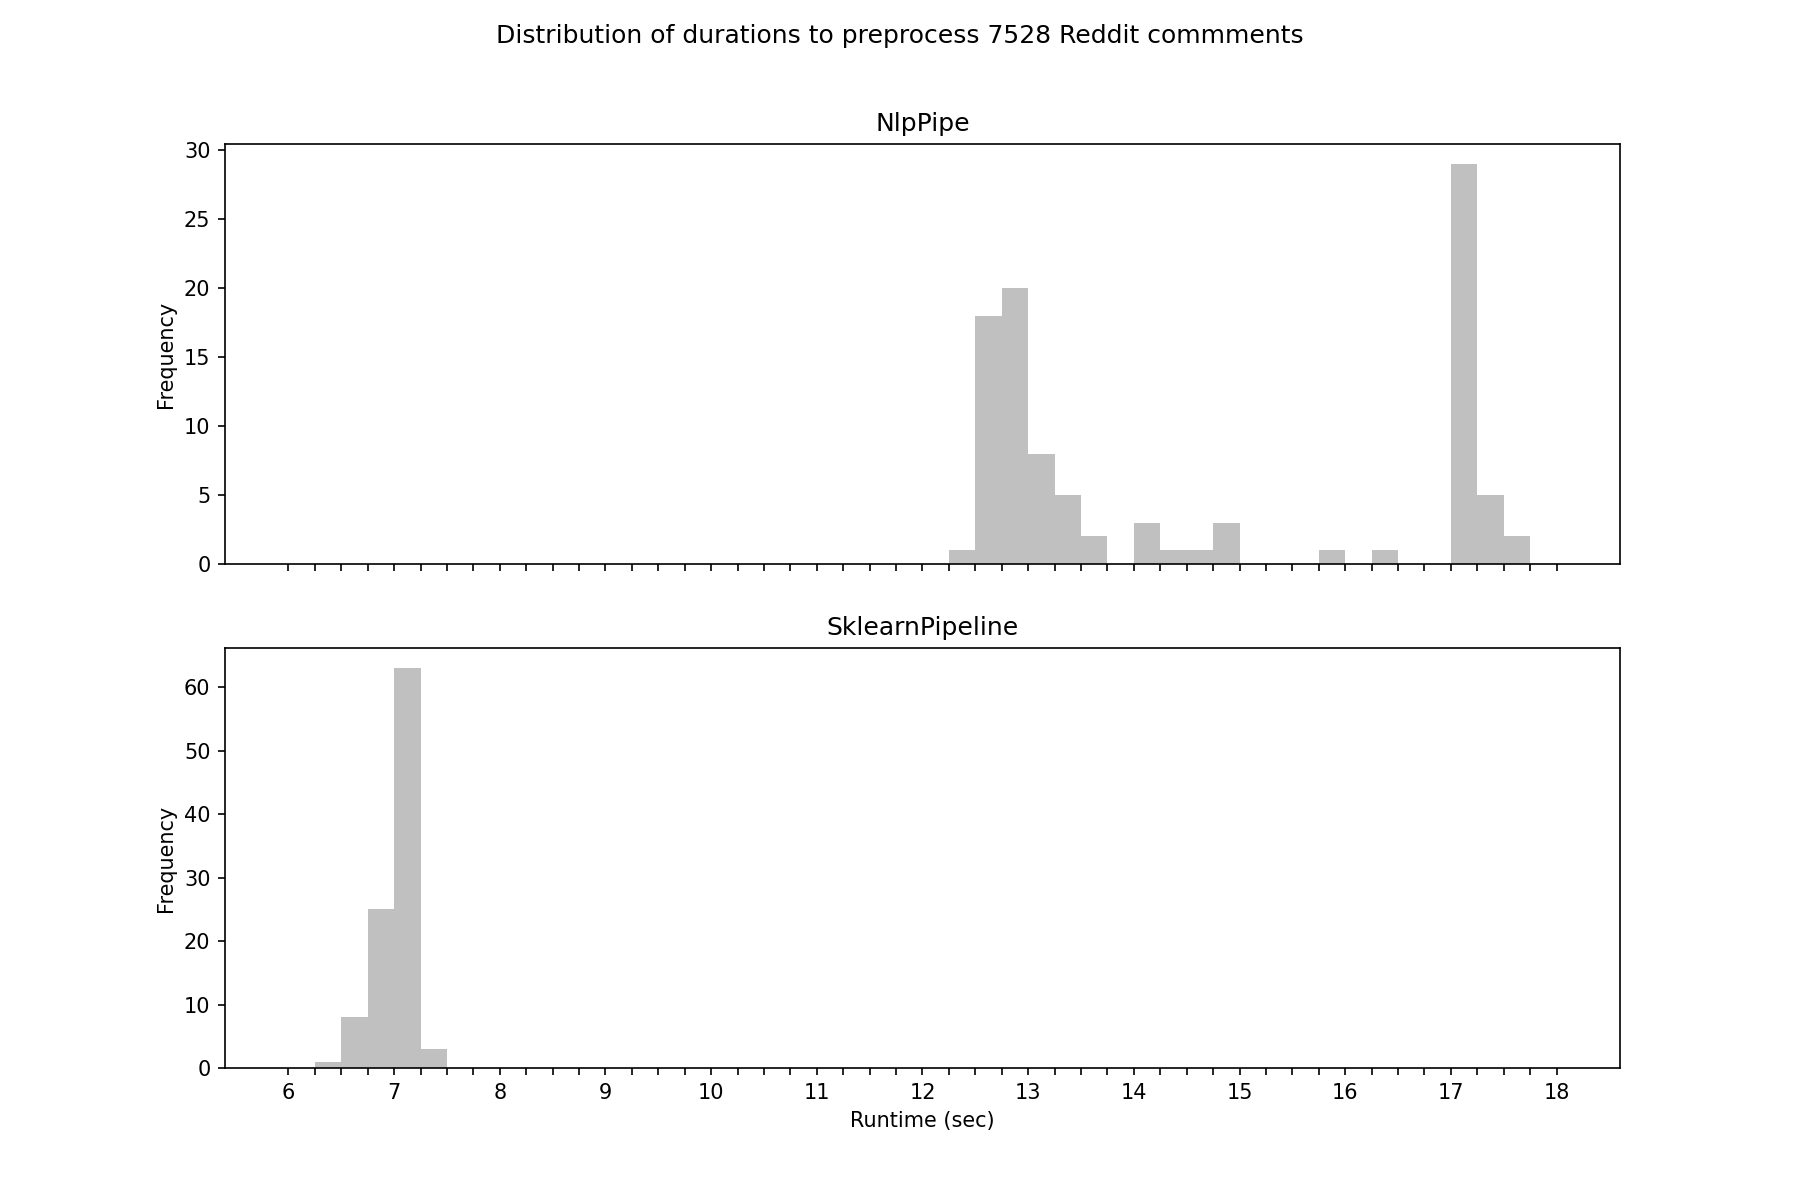
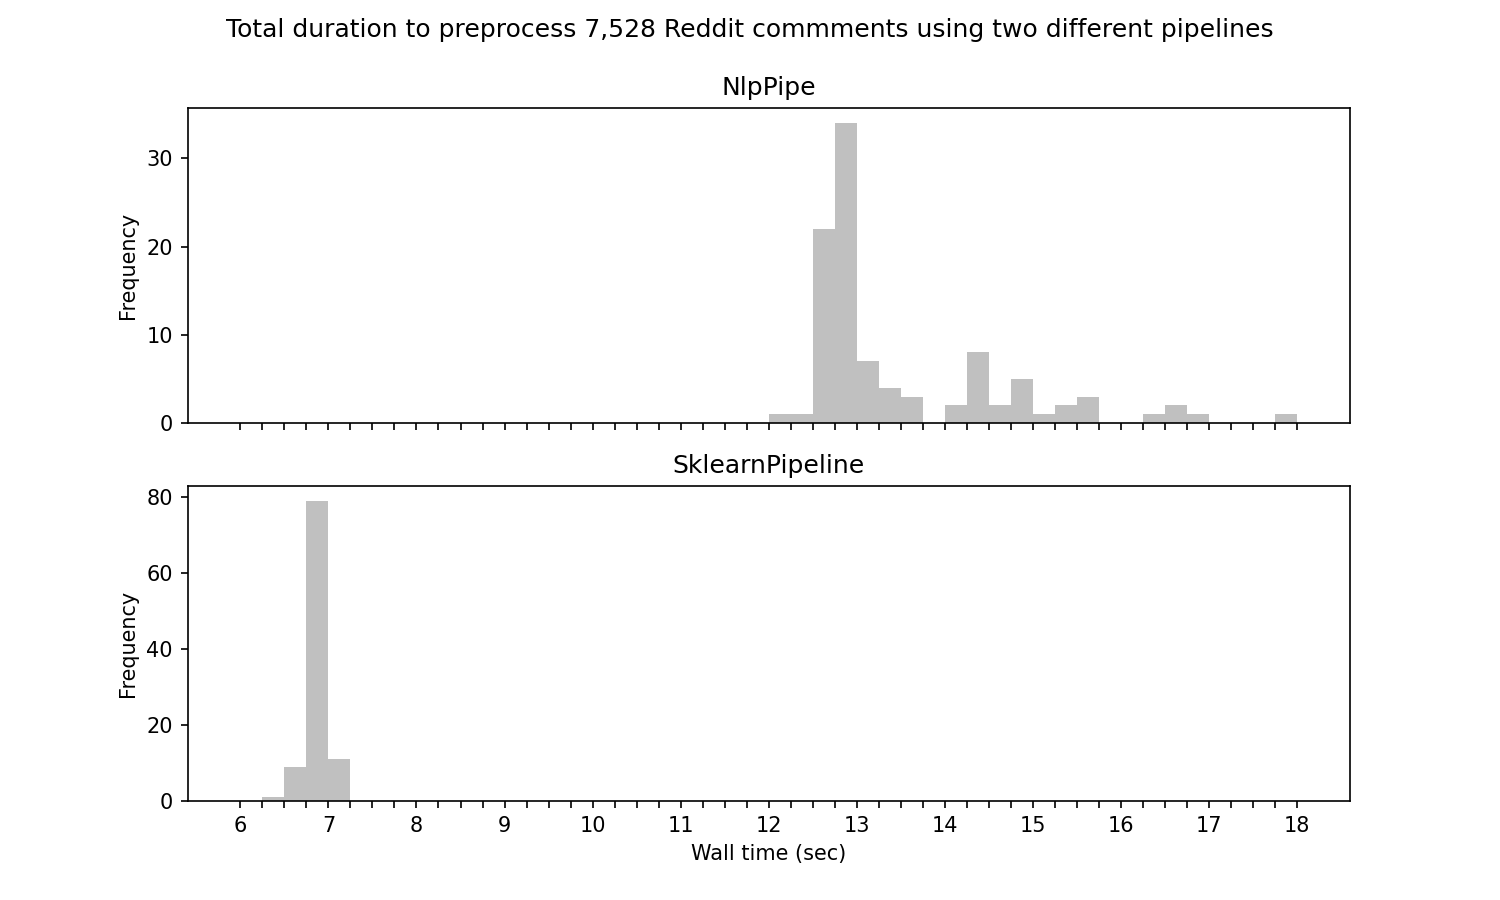
minor benchmarking histogram tweaks

diff --git a/sub_clf/preprocess/benchmark.py b/sub_clf/preprocess/benchmark.py
@@ -4,7 +4,7 @@ Benchmark the performance of two options for parallelized text preprocessing:
     1. using `spacy`'s `nlp.pipe` with custom components and a `batch_size` of `NCPU`
     2. using `sklearn.Pipeline` with custom regex-based transformers
 
-For each option, execute `NITER` iterations, compute the mean processing time,
+For each option, execute `NITER` iterations and compute the mean processing time,
 saving (1) the aggregate results to a "benchmark_aggregates.txt" and (2) the raw
 results to a series of histograms in "benchmark_histograms.png".
 """
@@ -84,12 +84,13 @@ class PerformanceBenchmarker:
         bins = np.linspace(min_, max_, nbins)
 
         axes = results.plot.hist(bins=bins, title=results.columns.tolist(),
-                                 figsize=(12, 8), color='silver',
+                                 figsize=(10, 6), color='silver',
                                  subplots=True, legend=False)
         axes[-1].set_xticks(bins)
         axes[-1].set_xticklabels('' if i % 1 else int(i) for i in bins)
-        axes[-1].set_xlabel('Runtime (sec)')
-        plt.suptitle(f'Distribution of durations to preprocess {ntext} Reddit commments')
+        axes[-1].set_xlabel('Wall time (sec)')
+        plt.suptitle(f'Total duration to preprocess {ntext:,} Reddit commments using '
+                     'two different pipelines')
 
         histogram_file_path = output_dir / 'benchmark_histograms.png'
         plt.savefig(histogram_file_path, dpi=150)
